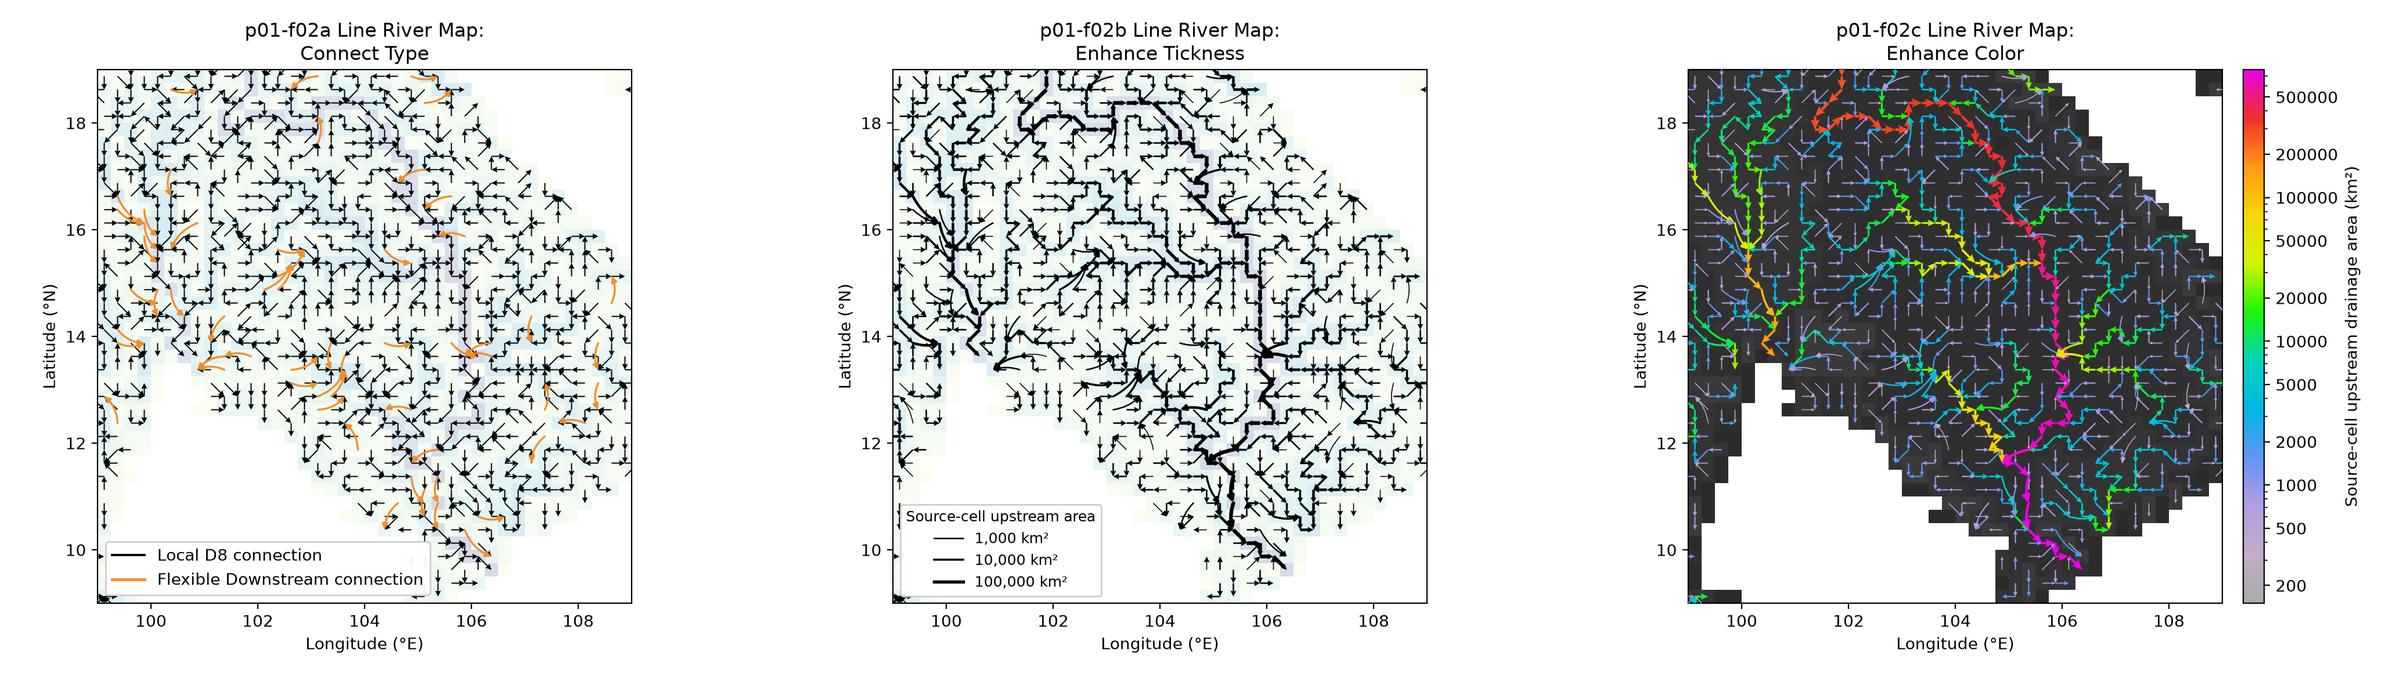
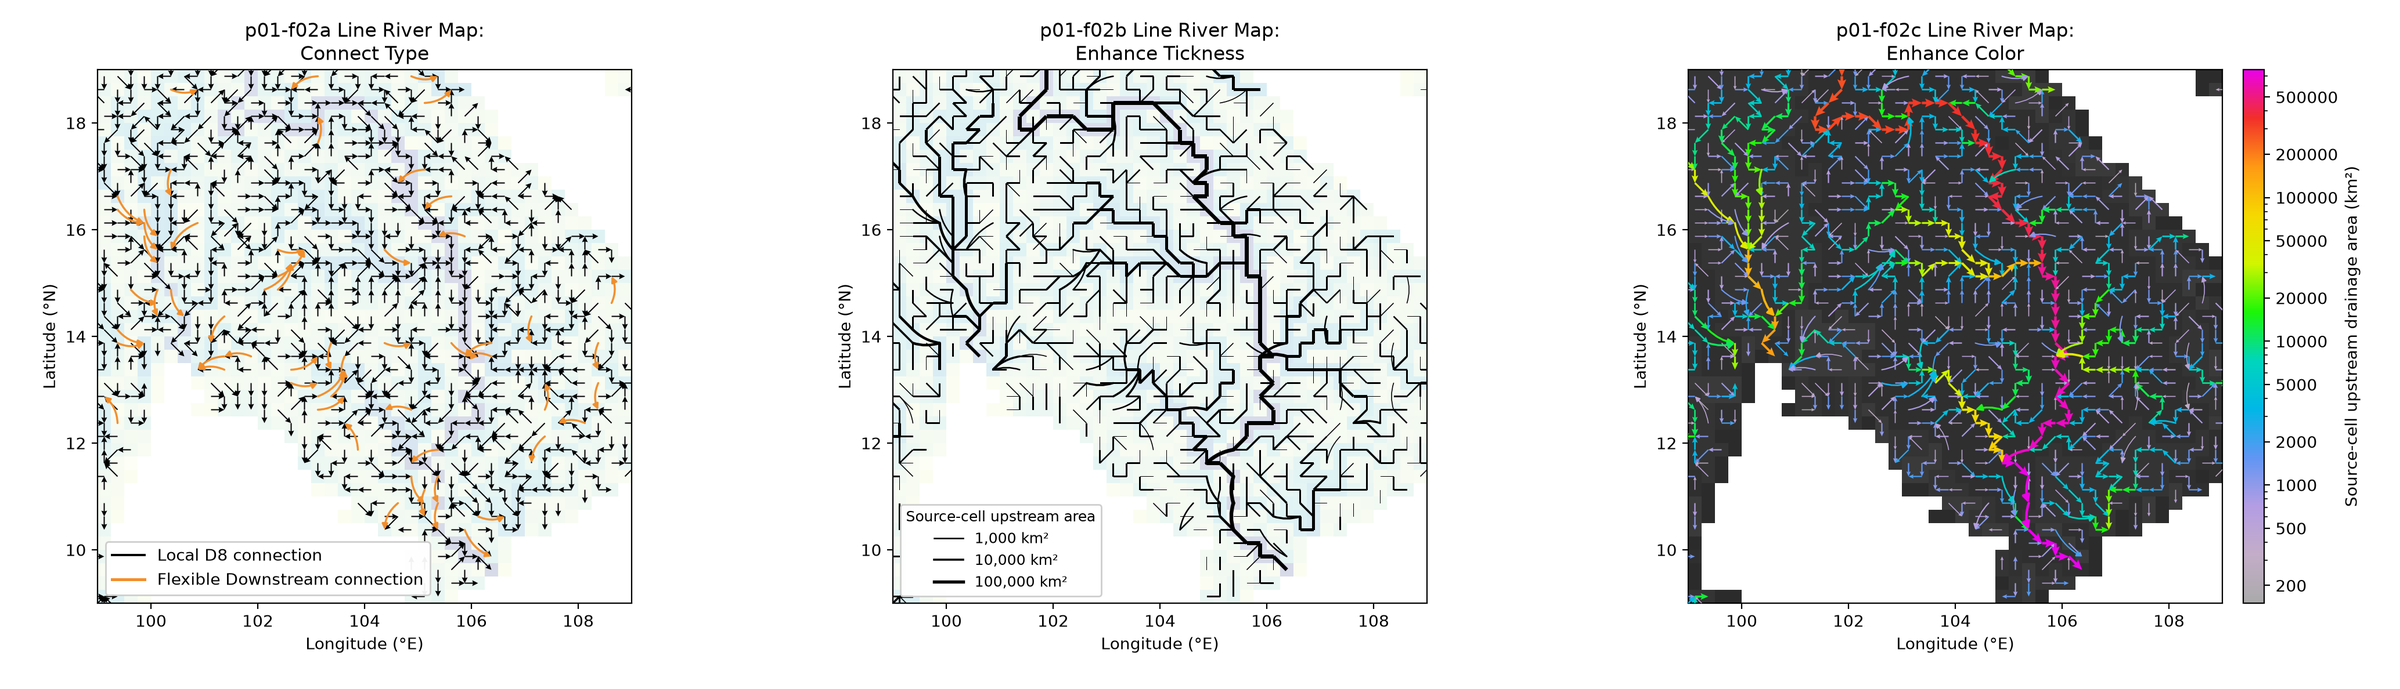
Try headless links in f02b thickness map

Changed region(s): [[0.375, 0.1219, 0.5938, 0.8229], [0.4688, 0.6705, 0.5, 0.701]]

diff --git a/visualization/river_map/script/river_network_common.py b/visualization/river_map/script/river_network_common.py
@@ -113,8 +113,9 @@ def count_segments_intersecting_extent(network: RiverNetwork, extent) -> tuple[i
 
 
 def draw_flexible_arrows(ax, network: RiverNetwork, colors, widths,
-                         alpha: float = 0.98, zorder: int = 5, head_sizes=8.5, curvature=0.16):
-    """Draw nonlocal nextxy links as curved arrows between exact cell centers."""
+                         alpha: float = 0.98, zorder: int = 5, head_sizes=8.5, curvature=0.16,
+                         show_heads=True):
+    """Draw curved links between exact cell centers, with optional arrowheads."""
     patches = []
     flexible_indices = np.flatnonzero(network.flexible)
     colors = np.broadcast_to(colors, (len(flexible_indices), 4)) if isinstance(
@@ -128,7 +129,7 @@ def draw_flexible_arrows(ax, network: RiverNetwork, colors, widths,
         destination = (network.lon[network.dest_cols[index]],
                       network.lat[network.dest_rows[index]])
         arrow = FancyArrowPatch(
-            source, destination, arrowstyle="-|>", connectionstyle=f"arc3,rad={curvature}",
+            source, destination, arrowstyle="-|>" if show_heads else "-", connectionstyle=f"arc3,rad={curvature}",
             mutation_scale=float(head_size), linewidth=float(width), color=color, alpha=alpha,
             shrinkA=0, shrinkB=0, zorder=zorder,
         )
@@ -137,10 +138,10 @@ def draw_flexible_arrows(ax, network: RiverNetwork, colors, widths,
     return patches
 
 
-def draw_area_arrows(ax, network: RiverNetwork, area_km2, norm, *, cmap=None):
+def draw_area_arrows(ax, network: RiverNetwork, area_km2, norm, *, cmap=None, show_heads=True):
     """Draw all links using six log-area shaft-width classes in physical inches.
 
-    Black arrows emphasize thickness; colored arrows use a narrower width
+    Black links emphasize thickness; colored arrows use a narrower width
     range so the palette stays legible. Full-map normalization is independent
     of the view. Grouping quivers gives actual variable shaft widths.
     """
@@ -161,7 +162,9 @@ def draw_area_arrows(ax, network: RiverNetwork, area_km2, norm, *, cmap=None):
         shaft_width = float(widths[selected][0])
         # Black b arrows keep a's 0.050-inch head width/length and 0.045-inch
         # head-axis length, independently of the area-scaled shaft thickness.
-        if cmap is None:
+        if not show_heads:
+            headwidth, headlength, headaxislength = 1.0, 0.0, 0.0
+        elif cmap is None:
             headwidth, headlength, headaxislength = (
                 0.050 / shaft_width, 0.050 / shaft_width, 0.045 / shaft_width,
             )
@@ -178,6 +181,7 @@ def draw_area_arrows(ax, network: RiverNetwork, area_km2, norm, *, cmap=None):
     patches = draw_flexible_arrows(
         ax, network, colors[flexible], widths[flexible] * 72,
         alpha=1.0, zorder=5, head_sizes=7.0 if cmap is None else 5 + 200 * widths[flexible],
+        show_heads=show_heads,
     )
     rendered += len(patches)
     if rendered != len(network.source_rows):

diff --git a/visualization/river_map/script/test_river_network_layout.py b/visualization/river_map/script/test_river_network_layout.py
@@ -63,12 +63,13 @@ class NetworkLayoutTest(unittest.TestCase):
                             self.assertGreater(max(item.width for item in arrows),
                                                3 * min(item.width for item in arrows))
                             for item in arrows:
-                                self.assertAlmostEqual(item.width * item.headwidth, 0.050)
-                                self.assertAlmostEqual(item.width * item.headlength, 0.050)
-                                self.assertAlmostEqual(item.width * item.headaxislength, 0.045)
+                                self.assertEqual(item.headwidth, 1.0)
+                                self.assertEqual(item.headlength, 0.0)
+                                self.assertEqual(item.headaxislength, 0.0)
                             for item in ax.patches:
                                 np.testing.assert_allclose(item.get_edgecolor()[:3], 0)
-                                self.assertEqual(item.get_mutation_scale(), 7.0)
+                                from matplotlib.patches import ArrowStyle
+                                self.assertIsInstance(item.get_arrowstyle(), ArrowStyle.Curve)
                         if suffix.startswith("a-"):
                             for item in ax.patches:
                                 self.assertEqual(item.get_mutation_scale(), 7.0)

diff --git a/visualization/river_map/script/f02b-line_river_map-enhance_tickness.py b/visualization/river_map/script/f02b-line_river_map-enhance_tickness.py
@@ -1,5 +1,5 @@
 #!/usr/bin/env python3
-"""Plot black nextxy arrows with enhanced upstream-area-based thickness."""
+"""Plot black nextxy lines without arrowheads with enhanced upstream-area-based thickness."""
 
 from __future__ import annotations
 
@@ -48,7 +48,7 @@ def main() -> None:
                 LogNorm(vmin=float(raster[valid].min()), vmax=float(raster[valid].max()))
                 ).set_alpha(0.17)
 
-    rendered, widths = draw_area_arrows(ax, network, area_km2, norm)
+    rendered, widths = draw_area_arrows(ax, network, area_km2, norm, show_heads=False)
     # Representative physical areas, drawn with the same six width classes.
     handles = []
     for area in (1_000, 10_000, 100_000):
@@ -65,7 +65,7 @@ def main() -> None:
         network, (args.west, args.east, args.south, args.north)
     )
     print(
-        f"Wrote {args.output}: {rendered} arrows ({np.count_nonzero(~network.flexible)} straight local, "
+        f"Wrote {args.output}: {rendered} links ({np.count_nonzero(~network.flexible)} straight local, "
         f"{np.count_nonzero(network.flexible)} curved flexible); source-cell uparea "
         f"range {minimum:g}–{maximum:g} km²; shaft width range "
         f"{widths.min():.3f}–{widths.max():.3f} inches. "

diff --git a/visualization/river_map/README.md b/visualization/river_map/README.md
@@ -148,12 +148,12 @@ Upstream drainage area is contributing land area, not discharge.
   arrows distinguish nonlocal Flexible Downstream connections. A faint
   upstream-area raster provides context. Flexible arrowheads are slightly
   smaller (7-point mutation scale), with stronger curvature (`rad=0.22`).
-- **f02b:** all arrows are black, with enhanced shaft thickness representing
+- **f02b:** black lines without arrowheads have enhanced thickness representing
   source-cell upstream area. A logarithmic six-class width scale makes larger
   rivers stand out while retaining small links. A legend gives representative
-  areas; the faint raster is the same as f02a. Arrowheads stay at the standard
-  size instead of enlarging with shaft thickness: local heads match f02a
-  (0.050-inch width/length); flexible heads use the same 7-point mutation scale.
+  areas; the faint raster is the same as f02a. Both straight local links and
+  curved flexible links omit arrowheads in this trial. Line widths and exact
+  endpoints are preserved; flow direction is not explicitly marked in b.
 - **f02c:** `cmf_colormap` **shade-rainbow** (`get_cmap("shade_rainbow")`) arrow colors represent source-cell
   upstream area on a logarithmic scale. Moderate area-based widths reinforce
   the network. Precomputed `bsncol` display indices form a darker charcoal-gray
@@ -185,7 +185,7 @@ independently of the plotting extent. Divide the normalized range into six
 equal classes, with the maximum in the last class. In b, shaft widths range
 from 0.008 to 0.032 inches; in c, from 0.008 to 0.022 inches. Local quivers
 use actual shaft widths; flexible strokes use the corresponding widths in
-points. In b, head size is independent of area; c retains its existing
+points. In b, arrowheads are disabled; c retains its existing
 proportional heads. Narrow local links are drawn before wider
 ones. The full-map area range is also used for c's continuous logarithmic
 colorbar. Inputs are never modified.

diff --git a/research/records/validation_runs/VR-0144.md b/research/records/validation_runs/VR-0144.md
@@ -1,0 +1,20 @@
+# VR-0144: Headless f02b trial
+
+Task DT-0098; instruction EV-0460, implementation EV-0461, validation EV-0462.
+Current branch `manual-automation`, baseline `f8cc1b9e`.
+
+Added optional `show_heads` drawing setting, defaulting to true. Only f02b
+passes false: local quivers have headwidth 1 and headlength/headaxislength 0;
+flexible patches use arrow style `-`. Width formulas, six area classes,
+coordinates, exact endpoints, curvature, background and layout are unchanged.
+README/catalog and the wrapper message describe the headless trial and the
+absence of explicit flow-direction markers. The setting can be reverted at
+the b call site without changing other panels.
+
+The wrapper generates all panels and composite successfully; b is visually
+reviewed. Five existing sizing scenarios pass across all three panels,
+including headless local/flexible style assertions and all-link counts.
+a/c PNGs are byte-identical to their Git baseline; only b and the composite
+change. Syntax, catalog paths, `git diff --check` and research validation pass.
+No Gallery or model/map inputs change. Knowledge-gap review found no new
+material scientific or architectural questions.

diff --git a/docs/dev_status.md b/docs/dev_status.md
@@ -9,6 +9,15 @@ Base snapshot: `origin/master` at `19e2c1a`, 2026-11-06. This branch-local propo
 
 ## Registered active projects
 
+### Headless f02b trial (2026-11-12)
+
+Maintainer requested this bounded trial on `manual-automation`, owned by
+Dai Yamazaki with Codex implementation. f02b omits both local and curved
+flexible arrowheads; thickness scaling, endpoints and extent are preserved.
+The b panel and composite are regenerated; a/c PNGs remain byte-identical.
+Five sizing scenarios pass. See
+[VR-0144](../research/records/validation_runs/VR-0144.md).
+
 ### f02 option naming update (2026-11-12)
 
 Maintainer-assigned naming follow-up on `manual-automation`, owned by Dai
